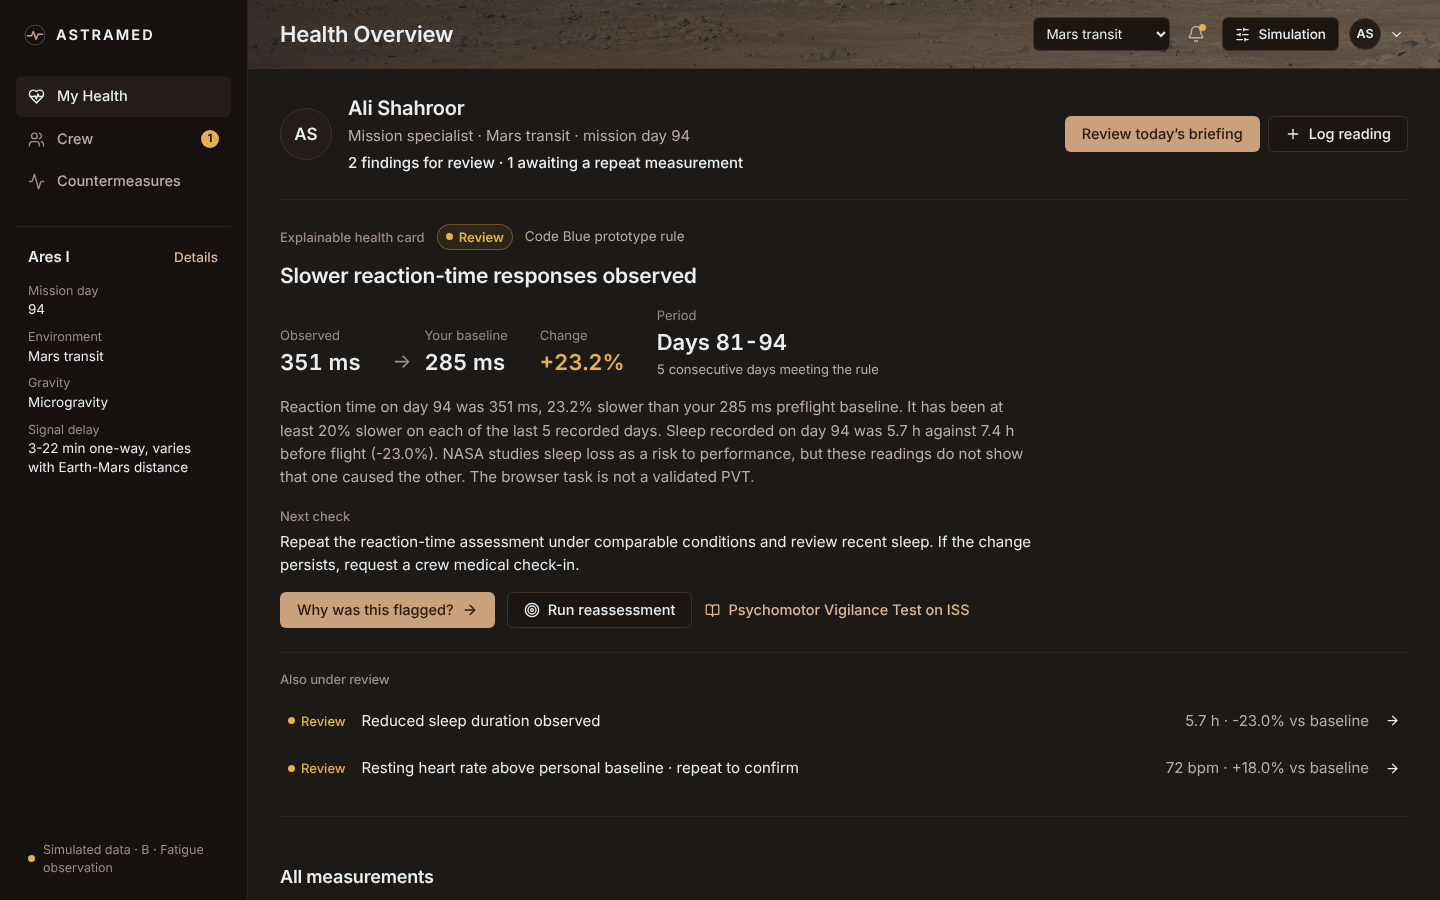
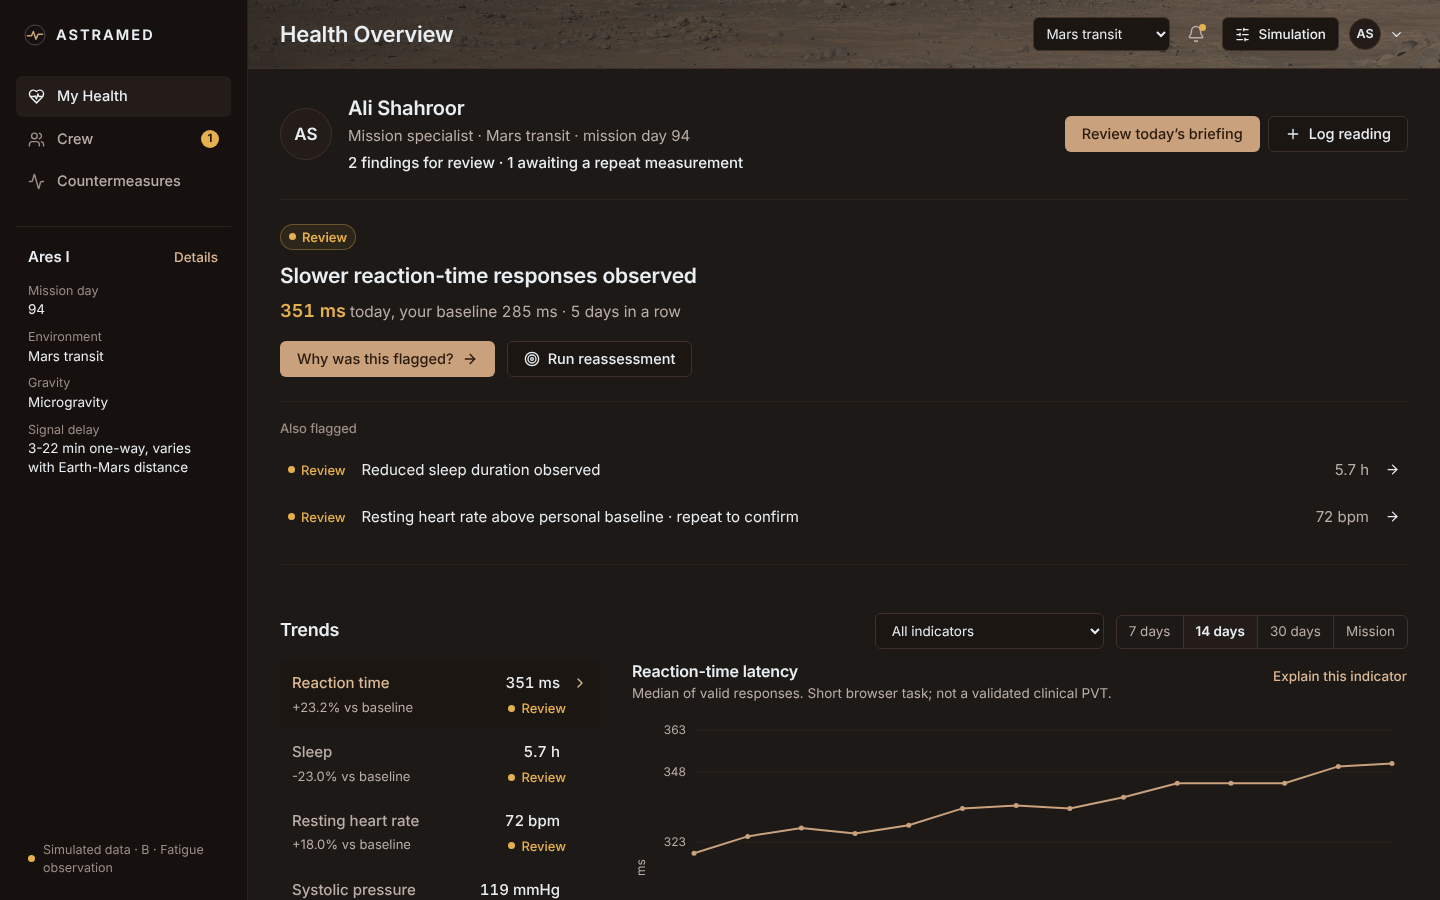
Simpler health overview
- Each measurement shows once: the separate All measurements grid is removed (the trend list has every value)
- Normal readings show only name and value; flagged ones add their change and status
- Health card: status, title and one line with today's value against the baseline; details stay in Why was this flagged?
- Normal state: one line under the name instead of a banner
- Hazard filter is a small dropdown next to the time range
- Tests and README screenshot updated

Claude-Session: https://claude.ai/code/session_01Y4tBbifeZJJN8wfoyAcbxp

diff --git a/src/workspace/MyHealth.tsx b/src/workspace/MyHealth.tsx
@@ -1,16 +1,10 @@
-import { ArrowRight, BookOpen, Check, ChevronRight, Plus, Target } from "lucide-react";
-import { hazardContext, hazards, metricFor, metrics } from "../data/catalog";
+import { ArrowRight, Check, ChevronRight, Plus, Target } from "lucide-react";
+import { hazards, metricFor, metrics } from "../data/catalog";
 import { evidenceFor } from "../data/evidence";
 import { doseUtilization, selectSeries } from "../engine/monitoring";
 import { TrendChart } from "../components/TrendChart";
-import type { Finding, Hazard, Indicator } from "../types";
+import type { Finding, Hazard } from "../types";
 
-const GROUPS: { label: string; ids: Indicator[] }[] = [
-  { label: "Cognitive and sleep", ids: ["reaction", "sleep"] },
-  { label: "Cardiovascular", ids: ["heart", "systolic", "oxygen"] },
-  { label: "Musculoskeletal and activity", ids: ["activity", "strength"] },
-  { label: "Cabin and exposure", ids: ["co2", "radiation"] },
-];
 import { StatusTag, useWs } from "./context";
 
 export function formatValue(f: Finding) {
@@ -33,24 +27,6 @@ export function changeText(f: Finding) {
 }
 
 /** Overview figures: whole-number percentages and the comparison stated in words. Full precision stays in the health card. */
-function readingValue(f: Finding) {
-  const m = metricFor(f.indicator);
-  if (!f.current) return "-";
-  const v = f.current.value;
-  if (f.indicator === "strength") return <>{v.toFixed(0)}<span className="unit">% of preflight</span></>;
-  if (f.indicator === "radiation") return <>{v.toFixed(0)}<span className="unit"> mSv</span></>;
-  return <>{v.toFixed(m.decimals)}<span className="unit"> {m.unit}</span></>;
-}
-function readingContext(f: Finding) {
-  const m = metricFor(f.indicator);
-  if (!f.current) return "No reading";
-  if (f.indicator === "co2") return `Limit ${evidenceFor("co2").limit} mmHg (1 h average)`;
-  if (f.indicator === "radiation") return `${doseUtilization(f.current.value, f.current.unit)?.toFixed(0)}% of ${evidenceFor("radiation").limit} mSv career limit`;
-  if (f.indicator === "strength") return "Synthetic estimate";
-  if (f.change === null) return "No baseline";
-  const p = Math.round(f.change);
-  return p === 0 ? `Same as baseline ${f.baseline} ${m.unit}` : `${p > 0 ? "+" : "−"}${Math.abs(p)}% vs baseline ${f.baseline} ${m.unit}`;
-}
 
 export function MyHealth() {
   const { astronaut, findings, state, range, setRange, indicator, setIndicator, hazard, setHazard, open, mission, environment } = useWs();
@@ -71,7 +47,7 @@ export function MyHealth() {
   const confirmed = active.filter((f) => f.status === "Alert" || f.persistence >= 3);
   const awaiting = active.length - confirmed.length;
   const summary = !primary
-    ? `No findings on mission day ${state.day}.`
+    ? ""
     : [
         alerts ? `${alerts} reference ${alerts === 1 ? "exceedance" : "exceedances"}` : "",
         confirmed.length - alerts > 0 ? `${confirmed.length - alerts} ${confirmed.length - alerts === 1 ? "finding" : "findings"} for review` : "",
@@ -85,7 +61,9 @@ export function MyHealth() {
         <div className="grow">
           <h2 id="who-h" className="who-name">{astronaut.name}</h2>
           <p className="muted">{astronaut.role} · {environment.name} · mission day {state.day}</p>
-          <p className="who-summary">{summary}</p>
+          {primary ? <p className="who-summary">{summary}</p> : (
+            <h3 className="who-summary clear"><Check size={16} strokeWidth={2.5} aria-hidden="true" /> No active findings<span className="muted"> · raise any symptoms with the crew medical officer</span></h3>
+          )}
         </div>
         <div className="who-actions">
           <button className="btn btn-primary" onClick={() => open({ type: "today" })}>Review today’s briefing</button>
@@ -98,22 +76,13 @@ export function MyHealth() {
       {primary ? (
         <section className={`finding ${primary.status === "Alert" ? "is-alert" : "is-review"}`} aria-labelledby="finding-h">
           <div className="finding-meta">
-            <span className="label">Explainable health card</span>
             <StatusTag status={primary.status} />
-            <span className="muted small">{primary.rule.origin}</span>
           </div>
           <h2 id="finding-h" className="finding-title">{primary.title}</h2>
-          <dl className="hero-facts">
-            <div><dt>Observed</dt><dd>{formatValue(primary)}</dd></div>
-            <div className="vs"><dt>{primary.indicator === "co2" || primary.indicator === "radiation" ? "NASA reference" : "Your baseline"}</dt><dd>{referenceText(primary).replace(/ (personal baseline|NASA reference.*|NASA career reference)$/, "")}</dd></div>
-            <div><dt>Change</dt><dd className={primary.status === "Alert" ? "alert-text" : "warn-text"}>{changeText(primary).replace(/ vs (baseline|reference)$/, "")}</dd></div>
-            <div><dt>Period</dt><dd>{primary.window}<small className="block muted">{primary.persistence} consecutive {primary.persistence === 1 ? "day" : "days"} meeting the rule</small></dd></div>
-          </dl>
-          <p className="finding-summary">{primary.explanation}</p>
-          <div className="finding-next">
-            <span className="label">Next check</span>
-            <p>{primary.next}</p>
-          </div>
+          <p className="finding-line">
+            <strong className={primary.status === "Alert" ? "alert-text" : "warn-text"}>{formatValue(primary)}</strong> today, {primary.indicator === "co2" || primary.indicator === "radiation" ? "NASA reference" : "your baseline"} {referenceText(primary).replace(/ (personal baseline|NASA reference.*|NASA career reference)$/, "")}
+            {primary.persistence > 1 && <> · {primary.persistence} days in a row</>}
+          </p>
           <div className="actions">
             <button className="btn btn-primary" onClick={() => open({ type: "finding", indicator: primary.indicator })}>
               Why was this flagged? <ArrowRight size={16} aria-hidden="true" />
@@ -123,20 +92,17 @@ export function MyHealth() {
                 <Target size={16} aria-hidden="true" /> Run reassessment
               </a>
             )}
-            <button className="btn btn-link" onClick={() => open({ type: "evidence", id: primary.evidenceIds.at(-1)! })}>
-              <BookOpen size={15} aria-hidden="true" /> {evidenceFor(primary.evidenceIds.at(-1)!).title}
-            </button>
           </div>
           {others.length > 0 && (
             <div className="also">
-              <h3 className="label">Also under review</h3>
+              <h3 className="label">Also flagged</h3>
               <ul>
                 {others.map((f) => (
                   <li key={f.id}>
                     <button className="row-btn" onClick={() => open({ type: "finding", indicator: f.indicator })}>
                       <StatusTag status={f.status} plain />
                       <span className="grow">{f.title}</span>
-                      <span className="muted">{formatValue(f)} · {changeText(f)}</span>
+                      <span className="muted">{formatValue(f)}</span>
                       <ArrowRight size={15} aria-hidden="true" />
                     </button>
                   </li>
@@ -145,59 +111,23 @@ export function MyHealth() {
             </div>
           )}
         </section>
-      ) : (
-        <section className="finding is-clear" aria-label="No active findings">
-          <span className="clear-mark" aria-hidden="true"><Check size={18} strokeWidth={2.5} /></span>
-          <div>
-            <h2 className="finding-title">No active findings</h2>
-            <p className="finding-summary">No rule is triggered on day {state.day}. This is not a health clearance, so raise any symptoms with the crew medical officer.</p>
-          </div>
-        </section>
-      )}
-
-      <h2 className="h2 readings-h">All measurements</h2>
-      <section className="readings" aria-label="Latest measurements">
-        {GROUPS.map((g) => (
-          <div key={g.label} className="reading-group">
-            <h2 className="list-label">{g.label}</h2>
-            <dl>
-              {g.ids.map((id) => {
-                const f = findings.find((x) => x.indicator === id)!;
-                const m = metricFor(id);
-                const flagged = f.status === "Review" || f.status === "Alert";
-                return (
-                  <div key={id} className={flagged ? "reading flagged" : "reading"}>
-                    <dt>
-                      <button className="link-plain" onClick={() => { setHazard("All hazards"); setIndicator(id); document.getElementById("trends")?.scrollIntoView({ behavior: "smooth" }); }}>{m.short}</button>
-                    </dt>
-                    <dd>
-                      <span className="reading-value">{readingValue(f)}</span>
-                      <span className={`reading-delta ${f.status === "Alert" ? "alert" : flagged ? "warn" : ""}`}>{readingContext(f)}</span>
-                    </dd>
-                  </div>
-                );
-              })}
-            </dl>
-          </div>
-        ))}
-      </section>
+      ) : null}
 
       <section id="trends" className="trends" aria-labelledby="trends-h">
         <div className="section-head">
           <h2 id="trends-h" className="h2">Trends</h2>
+          <label className="hazard-select">
+            <span className="sr-only">Show indicators for</span>
+            <select className="field sm" value={hazard} onChange={(e) => pickHazard(e.target.value as Hazard)} aria-label="NASA hazard filter">
+              {hazards.map((h) => <option key={h} value={h}>{h === "All hazards" ? "All indicators" : h}</option>)}
+            </select>
+          </label>
           <div className="segmented" role="group" aria-label="Time range">
             {[7, 14, 30, 94].map((n) => (
               <button key={n} aria-pressed={range === n} onClick={() => setRange(n)}>{n === 94 ? "Mission" : `${n} days`}</button>
             ))}
           </div>
         </div>
-        <div className="hazards" role="group" aria-label="NASA hazard filter">
-          {hazards.map((h) => (
-            <button key={h} className="chip" aria-pressed={hazard === h} onClick={() => pickHazard(h)}>{h === "All hazards" ? "All indicators" : h}</button>
-          ))}
-          <button className="btn btn-link sm" onClick={() => open({ type: "evidence", id: "hazards" })}>About the five hazards</button>
-        </div>
-        <p className="hazard-note">{hazardContext[hazard]}</p>
         <div className="trend-grid">
           <ul className="indicator-list" aria-label="Indicators">
             {visible.map((m) => {
@@ -210,10 +140,12 @@ export function MyHealth() {
                       <span className="indicator-value">{formatValue(f)}</span>
                       <ChevronRight className="indicator-arrow" size={16} aria-hidden="true" />
                     </span>
-                    <span className="indicator-bottom">
-                      <span>{changeText(f)}</span>
-                      <StatusTag status={f.status} plain />
-                    </span>
+                    {(f.status === "Review" || f.status === "Alert") && (
+                      <span className="indicator-bottom">
+                        <span>{changeText(f)}</span>
+                        <StatusTag status={f.status} plain />
+                      </span>
+                    )}
                   </button>
                 </li>
               );

diff --git a/tests/browser/app.spec.ts b/tests/browser/app.spec.ts
@@ -82,16 +82,16 @@ test("logging, persistence, profile switching, environment theme, hazards and da
   await page.getByRole("button", { name: "Log reading" }).click();
   await page.getByRole("dialog").getByLabel("Value (ms)").fill("270");
   await page.getByRole("dialog").getByRole("button", { name: "Save reading" }).click();
-  await expect(page.locator(".readings")).toContainText("270 ms");
+  await expect(page.locator(".indicator-list")).toContainText("270 ms");
   await page.reload();
-  await expect(page.locator(".readings")).toContainText("270 ms");
+  await expect(page.locator(".indicator-list")).toContainText("270 ms");
   await page.getByRole("button", { name: /Profile: Ali Shahroor/ }).click();
   await page.getByRole("menuitemradio", { name: /Mohammad Al-Ani/ }).click();
   await expect(page.locator(".who-name")).toHaveText("Mohammad Al-Ani");
   await page.getByRole("banner").getByLabel("Environment").selectOption("earth");
   await expect(page.locator("html")).toHaveAttribute("data-env", "earth");
   await expect(page.locator(".mission-panel")).toContainText("1 g");
-  await page.getByRole("button", { name: "Space radiation" }).click();
+  await page.getByLabel("NASA hazard filter").selectOption("Space radiation");
   await expect(page.getByRole("heading", { name: "Career effective radiation dose", exact: true })).toBeVisible();
   const panel = await sim(page);
   await panel.getByLabel("Previous mission day").click();

diff --git a/src/styles/main.css b/src/styles/main.css
@@ -933,3 +933,16 @@ label.choice { text-align: center; padding: var(--s2) var(--s2); font-size: 14px
 .indicator-bottom { padding-right: 22px; }
 /* Keep looping clips at the same size as the exercise stage */
 .training-detail .video { max-width: 880px; }
+
+
+/* Simpler overview */
+.who-summary.clear { display: flex; align-items: center; gap: 6px; flex-wrap: wrap; font-size: 15px; font-weight: 500; color: var(--text); }
+.who-summary.clear svg { color: var(--ok); }
+.who-summary.clear .muted { font-weight: 400; font-size: 14px; }
+.finding-line { margin-top: var(--s2); color: var(--text-2); font-size: 15.5px; font-variant-numeric: tabular-nums; }
+.finding-line strong { font-size: 18px; font-weight: 600; }
+.trends .section-head { gap: var(--s3); flex-wrap: wrap; }
+.hazard-select { margin-left: auto; }
+.hazard-select .field.sm { height: 32px; padding: 0 var(--s3); font-size: 13.5px; }
+.indicator-list .indicator { padding-top: 10px; padding-bottom: 10px; }
+.hazard-select .field.sm { width: auto; min-width: 180px; }
